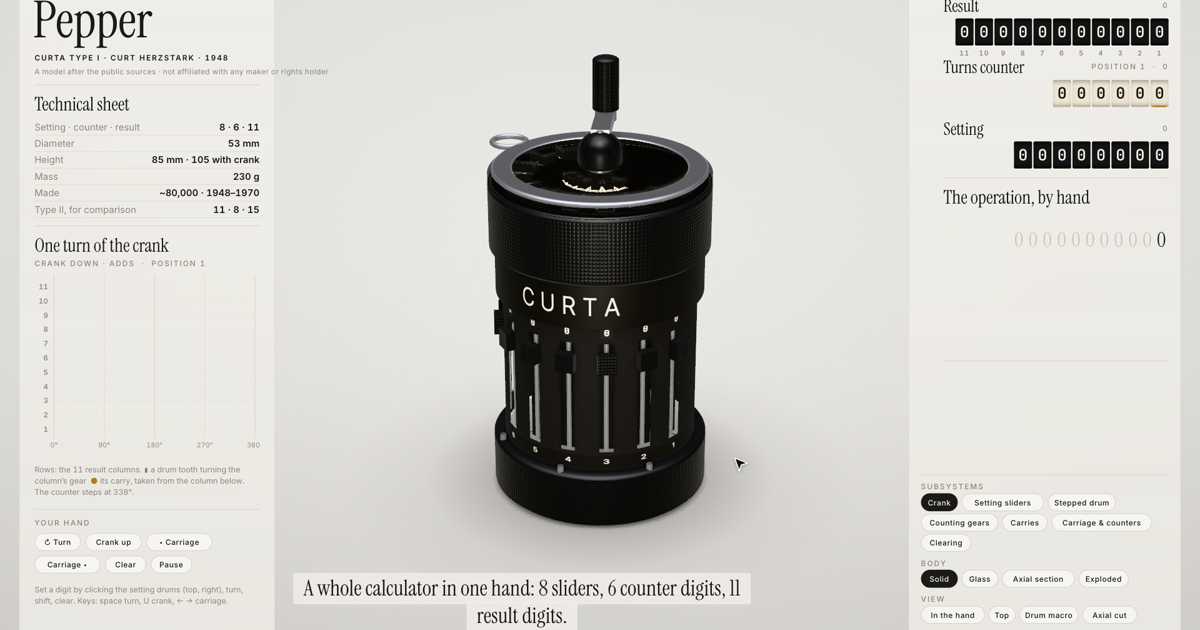
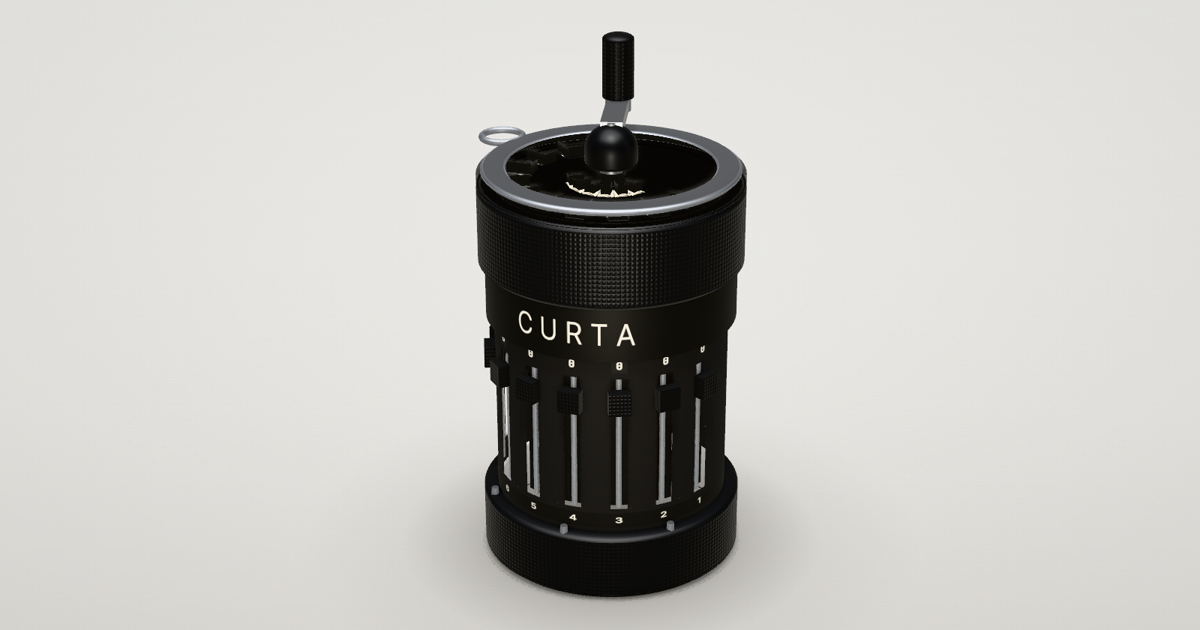
Rope and Pepper share cards without the console; the gallery card rebuilt from them
Rope: the film at 6 s, the trays open; Pepper: frame 0 framed on the calculator. Both rendered with the
clean config, written by ffmpeg with -map_metadata -1; FILM.md gives the commands.

Claude-Session: https://claude.ai/code/session_01BzxZC5aA7ZkPTd3m9Kq4wy

diff --git a/machines/pepper/FILM.md b/machines/pepper/FILM.md
@@ -15,11 +15,11 @@ python3 "$SKILL_DIR/run_sfx.py" curta-shared/score.py   # teardown-out/pepper-sc
 ffmpeg -y -i teardown-out/silent.mp4 -i teardown-out/pepper-score.wav -map 0:v -map 1:a -c:v copy -c:a aac -b:a 256k -shortest -movflags +faststart teardown-out/pepper-en.mp4
 ```
 
-The share card is frame 0 of the film, scaled and cropped to 1200 × 630, without metadata:
+The share card is frame 0 of the film without the sheet, framed on the calculator, 1200 × 630, without metadata:
 
 ```sh
-node "$SKILL_DIR/sims/capture.mjs" curta-film --config /tmp/en.json --size 1600x900 --dpr 1.2 --still 0 --out teardown-out/frame0.png
-ffmpeg -y -i teardown-out/frame0.png -vf "scale=1200:675,crop=1200:630:0:22" -map_metadata -1 og.png
+node "$SKILL_DIR/sims/capture.mjs" curta-film --config /tmp/clean.json --size 1600x900 --dpr 1.2 --still 0 --out teardown-out/frame0.png   # {"lang":"en","clean":true}
+ffmpeg -y -i teardown-out/frame0.png -vf "crop=1600:840:145:80,scale=1200:630" -map_metadata -1 og.png
 ```
 
 On macOS, Playwright's headless shell may get no WebGL context; point the capture at Chrome:

diff --git a/machines/rope/FILM.md b/machines/rope/FILM.md
@@ -15,7 +15,7 @@ python3 "$SKILL_DIR/run_sfx.py" agc-shared/score.py     # teardown-out/rope-scor
 ffmpeg -y -i teardown-out/silent.mp4 -i teardown-out/rope-score.wav -map 0:v -map 1:a -c:v copy -c:a aac -b:a 256k -shortest -movflags +faststart teardown-out/rope-en.mp4
 ```
 
-The share card is the film's first frame, scaled: `ffmpeg -y -i teardown-out/rope-en.mp4 -frames:v 1 -vf "crop=1920:1008:0:36,scale=1200:630" -map_metadata -1 og.png`.
+The share card is the film at 6 s (the trays open) without the console: `node "$SKILL_DIR/sims/capture.mjs" agc-film --config /tmp/clean.json --size 1600x900 --dpr 1.2 --still 6 --out teardown-out/og-src.png` with `{"lang":"en","clean":true}`, then `ffmpeg -y -i teardown-out/og-src.png -vf "crop=iw:iw*630/1200:0:(ih-iw*630/1200)/2,scale=1200:630" -map_metadata -1 og.png`.
 
 On macOS, Playwright's headless shell may get no WebGL context; point the capture at Chrome:
 `CHROMIUM="/Applications/Google Chrome.app/Contents/MacOS/Google Chrome"`.
